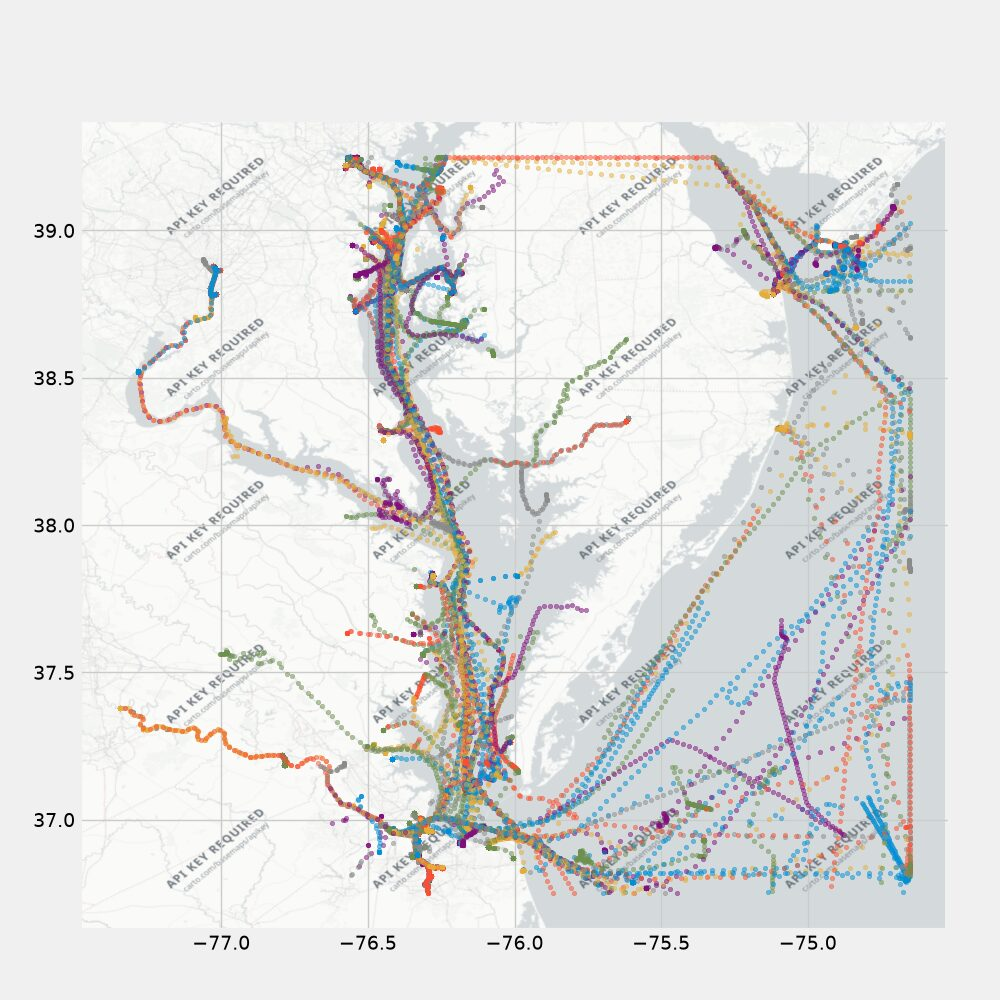
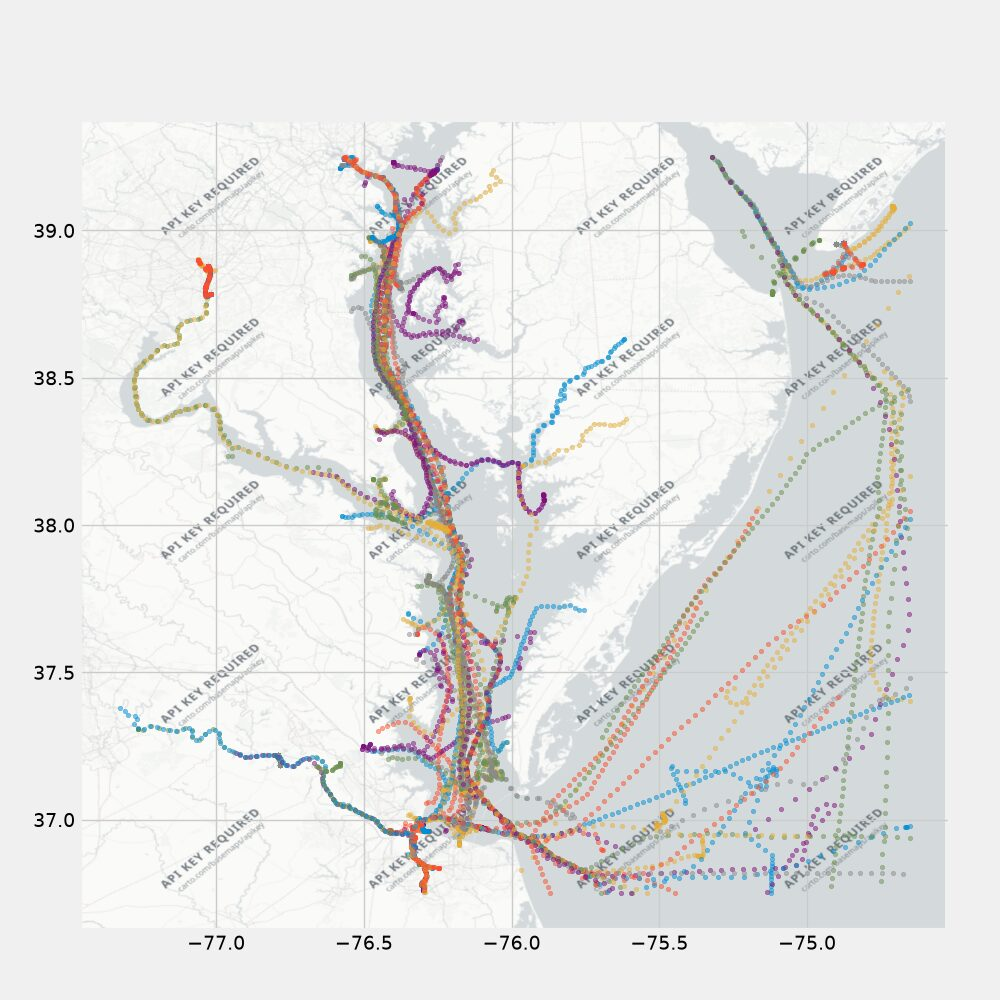
Update AIS blog post: fix fabricated over-land tracks
Adds the whole-pipeline script, the voyage-segmentation and land-mask logic
in create_tracks.py that stops tracks from fabricating a path over land
across a region-of-interest gap, and the day-granularity split details.
Notes the update inline while keeping the original publication date.

Claude-Session: https://claude.ai/code/session_018ydKSduALdKf5C2pzwTjED

diff --git a/blog-coast-guard-ais-data.html b/blog-coast-guard-ais-data.html
@@ -39,6 +39,12 @@
             </div>
 
             <div class="blog-content">
+<blockquote>
+<p><strong>Updated September 11, 2026:</strong> <code>create_tracks.py</code> now splits each vessel&rsquo;s day into
+contiguous voyage segments before resampling and rejects any track that spans too much
+distance over land, removing tracks that previously appeared to sail straight over land — see
+&ldquo;Create Tracks&rdquo; below.</p>
+</blockquote>
 <p>The Marine Cadastre publishes a year of Automatic Identification System (AIS) broadcast
 messages from every vessel required to carry a transponder — position, speed, and heading,
 reported every few seconds. This repo processes the 2023 data into the format used by
@@ -53,6 +59,18 @@ directly into the model. The default output location is <code>./output/mc_ais</c
 <p>All of the code discussed below lives in the
 <a href="https://github.com/dennisfgardner/coast_guard_AIS_data">coast_guard_AIS_data repository on GitHub</a>.</p>
 <h2>Data Processing Pipeline</h2>
+<h3>Running the Whole Pipeline</h3>
+<p><code>scripts/process_all_data.sh</code> runs the processing stages end to end, with a progress bar per
+stage. It never touches <code>zips</code> or <code>unzips</code>, and asks before emptying any directory.</p>
+<pre><code class="language-bash">./scripts/process_all_data.sh            # rebuild tracks + splits
+./scripts/process_all_data.sh --full     # also rebuild filtered + rois (re-reads ~303 GB)
+./scripts/process_all_data.sh --plots    # also render the per-day PNGs
+</code></pre>
+<p>The default is tracks-only, which is all a change to the track-building code needs; use
+<code>--full</code> only when the row-level filters in <code>filter_invalid_data.py</code> have changed, since <code>rois</code>
+derives from <code>filtered</code> and the two must stay in sync. The stages can also be run one at a
+time, as below — every stage skips files whose output already exists, so an interrupted run
+resumes rather than starting over.</p>
 <h3>Getting the Data</h3>
 <p>Edit the paths in <code>scripts/get_all_2023_broadcast_data.sh</code> to download all the data (you might
 need to make the script executable with <code>chmod +x</code>). The 365 days of 2023 data is about 111GB
@@ -82,13 +100,45 @@ here is centered on Washington, DC / Chesapeake Bay.</p>
 <pre><code class="language-bash">./create_tracks.py
 </code></pre>
 <p>Optionally, plot the tracks afterward with <code>./plot_tracks.py</code>.</p>
+<p>A day of AIS broadcasts for one MMSI is <em>not</em> one track. The region-of-interest stage drops
+every message outside the box, so a vessel that leaves the region and comes back leaves a
+multi-hour hole in its day — resampling across that hole invents a straight line, which is how
+earlier plots had ships sailing over the Delmarva peninsula. <code>create_tracks.py</code> first cuts each
+vessel&rsquo;s day into contiguous voyage segments, splitting wherever:</p>
+<ul>
+<li>the time gap exceeds <code>max_gap_sec</code> (30 min) — the region-exit case above,</li>
+<li>the implied point-to-point speed exceeds <code>max_jump_kts</code> (40 kt) — MMSI collisions and spoofed
+  positions, which teleport even without a time gap,</li>
+<li>the vessel idles below <code>idle_sog_kts</code> (0.5 kt) for longer than <code>max_idle_sec</code> (1 h) — the
+  dwell itself is discarded, so moorings don&rsquo;t swamp the actual voyages.</li>
+</ul>
+<p>Each segment is then resampled onto a uniform 600 s grid (course over ground is interpolated on
+the unit circle, so a 350&deg; &rarr; 10&deg; turn goes through north rather than backwards
+through south), checked against a land mask, and cut into chunks of at most
+<code>max_resampled_points</code> (144 samples = 24 h). Chunks shorter than <code>min_resampled_points</code> (36,
+matching TrAISformer&rsquo;s own <code>min_seqlen</code>) are dropped — output tracks are therefore 36-144
+samples with every consecutive step exactly 600 s, matching the shape of the paper&rsquo;s <code>ct_dma</code>
+reference data.</p>
+<p>The land mask is a backstop behind segmentation rather than the primary defense — on a 7-day
+trial it rejected nothing that segmentation hadn&rsquo;t already removed. It&rsquo;s applied to the
+<em>resampled</em> track, never the raw points: at the ~1 km resolution of the grid, 56% of genuine
+receptions read as &ldquo;land&rdquo; because moored vessels sit at piers in Norfolk and Baltimore. A track
+is rejected only when it <em>spans</em> more than <code>land_run_nmi</code> overland in a straight line — span
+rather than distance traveled, because a vessel working a waterway too narrow for the grid to
+resolve otherwise accumulates land distance without bound: the Potomac water taxis at
+Washington, DC clock up 50 nmi doing laps in a river under 1 km wide.</p>
 <figure><img alt="Vessel tracks near Washington, DC / Chesapeake Bay" src="images/coast-guard-ais-data/AIS_2023_09_08.jpg" />
 <figcaption>Vessel tracks reconstructed from a day of 2023 AIS broadcasts in the Washington, DC /
-Chesapeake Bay region of interest.</figcaption></figure>
+Chesapeake Bay region of interest, after the segmentation and land-mask fixes above.</figcaption></figure>
 <h3>Split Data</h3>
 <pre><code class="language-bash">python ./split_tracks.py
 </code></pre>
-<p>Splits the tracks into train, eval, and test sets, ready for TrAISformer.</p>
+<p>Splits the tracks into train, eval, and test sets, ready for TrAISformer. The split is at <em>day</em>
+granularity — whole days are shuffled and assigned to train/valid/test, so a single vessel&rsquo;s day
+never straddles two splits. The shuffle is seeded (<code>Splits.seed</code> in <code>config.py</code>) and filenames
+are sorted first, so the same day always lands in the same split and two training runs are
+comparable; changing the seed reshuffles every day and invalidates any comparison against a
+previously trained model.</p>
 <p>The full source — the download script, the filtering and region-of-interest steps, track
 construction, and the train/eval/test split — is on GitHub at
 <a href="https://github.com/dennisfgardner/coast_guard_AIS_data">dennisfgardner/coast_guard_AIS_data</a>.</p>

diff --git a/blog.html b/blog.html
@@ -28,7 +28,7 @@
         <article class="post-card">
             <h3 class="post-card-title"><a href="blog-coast-guard-ais-data.html">Processing Marine Cadastre AIS Data for TrAISformer</a></h3>
             <span class="blog-date">September 8, 2026</span>
-            <p class="post-excerpt">Turning a year of raw Marine Cadastre AIS broadcasts — 111GB of compressed csv files — into the vessel-track format TrAISformer expects: a validity filter, a region-of-interest crop, and a train/eval/test split.</p>
+            <p class="post-excerpt">Turning a year of raw Marine Cadastre AIS broadcasts into the vessel-track format TrAISformer expects — including the fix for a subtler bug, where a naive resample across a region-of-interest gap was fabricating tracks that sailed ships straight over land.</p>
             <div class="tags">
                 <span class="tag">Machine Learning</span>
                 <span class="tag">Data Processing</span>

diff --git a/content/posts/coast-guard-ais-data.md b/content/posts/coast-guard-ais-data.md
@@ -4,10 +4,16 @@ date: 2026-09-08
 tags: [Machine Learning, Data Processing, Python, Maritime]
 repo: https://github.com/dennisfgardner/coast_guard_AIS_data
 excerpt: >-
-  Turning a year of raw Marine Cadastre AIS broadcasts — 111GB of compressed
-  csv files — into the vessel-track format TrAISformer expects: a validity
-  filter, a region-of-interest crop, and a train/eval/test split.
+  Turning a year of raw Marine Cadastre AIS broadcasts into the vessel-track
+  format TrAISformer expects — including the fix for a subtler bug, where a
+  naive resample across a region-of-interest gap was fabricating tracks that
+  sailed ships straight over land.
 ---
+
+> **Updated September 11, 2026:** `create_tracks.py` now splits each vessel's day into
+> contiguous voyage segments before resampling and rejects any track that spans too much
+> distance over land, removing tracks that previously appeared to sail straight over land — see
+> "Create Tracks" below.
 
 The Marine Cadastre publishes a year of Automatic Identification System (AIS) broadcast
 messages from every vessel required to carry a transponder — position, speed, and heading,
@@ -26,6 +32,23 @@ All of the code discussed below lives in the
 [coast_guard_AIS_data repository on GitHub](https://github.com/dennisfgardner/coast_guard_AIS_data).
 
 ## Data Processing Pipeline
+
+### Running the Whole Pipeline
+
+`scripts/process_all_data.sh` runs the processing stages end to end, with a progress bar per
+stage. It never touches `zips` or `unzips`, and asks before emptying any directory.
+
+```bash
+./scripts/process_all_data.sh            # rebuild tracks + splits
+./scripts/process_all_data.sh --full     # also rebuild filtered + rois (re-reads ~303 GB)
+./scripts/process_all_data.sh --plots    # also render the per-day PNGs
+```
+
+The default is tracks-only, which is all a change to the track-building code needs; use
+`--full` only when the row-level filters in `filter_invalid_data.py` have changed, since `rois`
+derives from `filtered` and the two must stay in sync. The stages can also be run one at a
+time, as below — every stage skips files whose output already exists, so an interrupted run
+resumes rather than starting over.
 
 ### Getting the Data
 
@@ -78,10 +101,39 @@ Build vessel tracks from the broadcast messages:
 
 Optionally, plot the tracks afterward with `./plot_tracks.py`.
 
+A day of AIS broadcasts for one MMSI is *not* one track. The region-of-interest stage drops
+every message outside the box, so a vessel that leaves the region and comes back leaves a
+multi-hour hole in its day — resampling across that hole invents a straight line, which is how
+earlier plots had ships sailing over the Delmarva peninsula. `create_tracks.py` first cuts each
+vessel's day into contiguous voyage segments, splitting wherever:
+
+- the time gap exceeds `max_gap_sec` (30 min) — the region-exit case above,
+- the implied point-to-point speed exceeds `max_jump_kts` (40 kt) — MMSI collisions and spoofed
+  positions, which teleport even without a time gap,
+- the vessel idles below `idle_sog_kts` (0.5 kt) for longer than `max_idle_sec` (1 h) — the
+  dwell itself is discarded, so moorings don't swamp the actual voyages.
+
+Each segment is then resampled onto a uniform 600 s grid (course over ground is interpolated on
+the unit circle, so a 350&deg; &rarr; 10&deg; turn goes through north rather than backwards
+through south), checked against a land mask, and cut into chunks of at most
+`max_resampled_points` (144 samples = 24 h). Chunks shorter than `min_resampled_points` (36,
+matching TrAISformer's own `min_seqlen`) are dropped — output tracks are therefore 36-144
+samples with every consecutive step exactly 600 s, matching the shape of the paper's `ct_dma`
+reference data.
+
+The land mask is a backstop behind segmentation rather than the primary defense — on a 7-day
+trial it rejected nothing that segmentation hadn't already removed. It's applied to the
+*resampled* track, never the raw points: at the ~1 km resolution of the grid, 56% of genuine
+receptions read as "land" because moored vessels sit at piers in Norfolk and Baltimore. A track
+is rejected only when it *spans* more than `land_run_nmi` overland in a straight line — span
+rather than distance traveled, because a vessel working a waterway too narrow for the grid to
+resolve otherwise accumulates land distance without bound: the Potomac water taxis at
+Washington, DC clock up 50 nmi doing laps in a river under 1 km wide.
+
 ![Vessel tracks near Washington, DC / Chesapeake Bay](images/coast-guard-ais-data/AIS_2023_09_08.jpg)
 
 **Vessel tracks reconstructed from a day of 2023 AIS broadcasts in the Washington, DC /
-Chesapeake Bay region of interest.**
+Chesapeake Bay region of interest, after the segmentation and land-mask fixes above.**
 
 ### Split Data
 
@@ -89,7 +141,12 @@ Chesapeake Bay region of interest.**
 python ./split_tracks.py
 ```
 
-Splits the tracks into train, eval, and test sets, ready for TrAISformer.
+Splits the tracks into train, eval, and test sets, ready for TrAISformer. The split is at *day*
+granularity — whole days are shuffled and assigned to train/valid/test, so a single vessel's day
+never straddles two splits. The shuffle is seeded (`Splits.seed` in `config.py`) and filenames
+are sorted first, so the same day always lands in the same split and two training runs are
+comparable; changing the seed reshuffles every day and invalidates any comparison against a
+previously trained model.
 
 The full source — the download script, the filtering and region-of-interest steps, track
 construction, and the train/eval/test split — is on GitHub at
